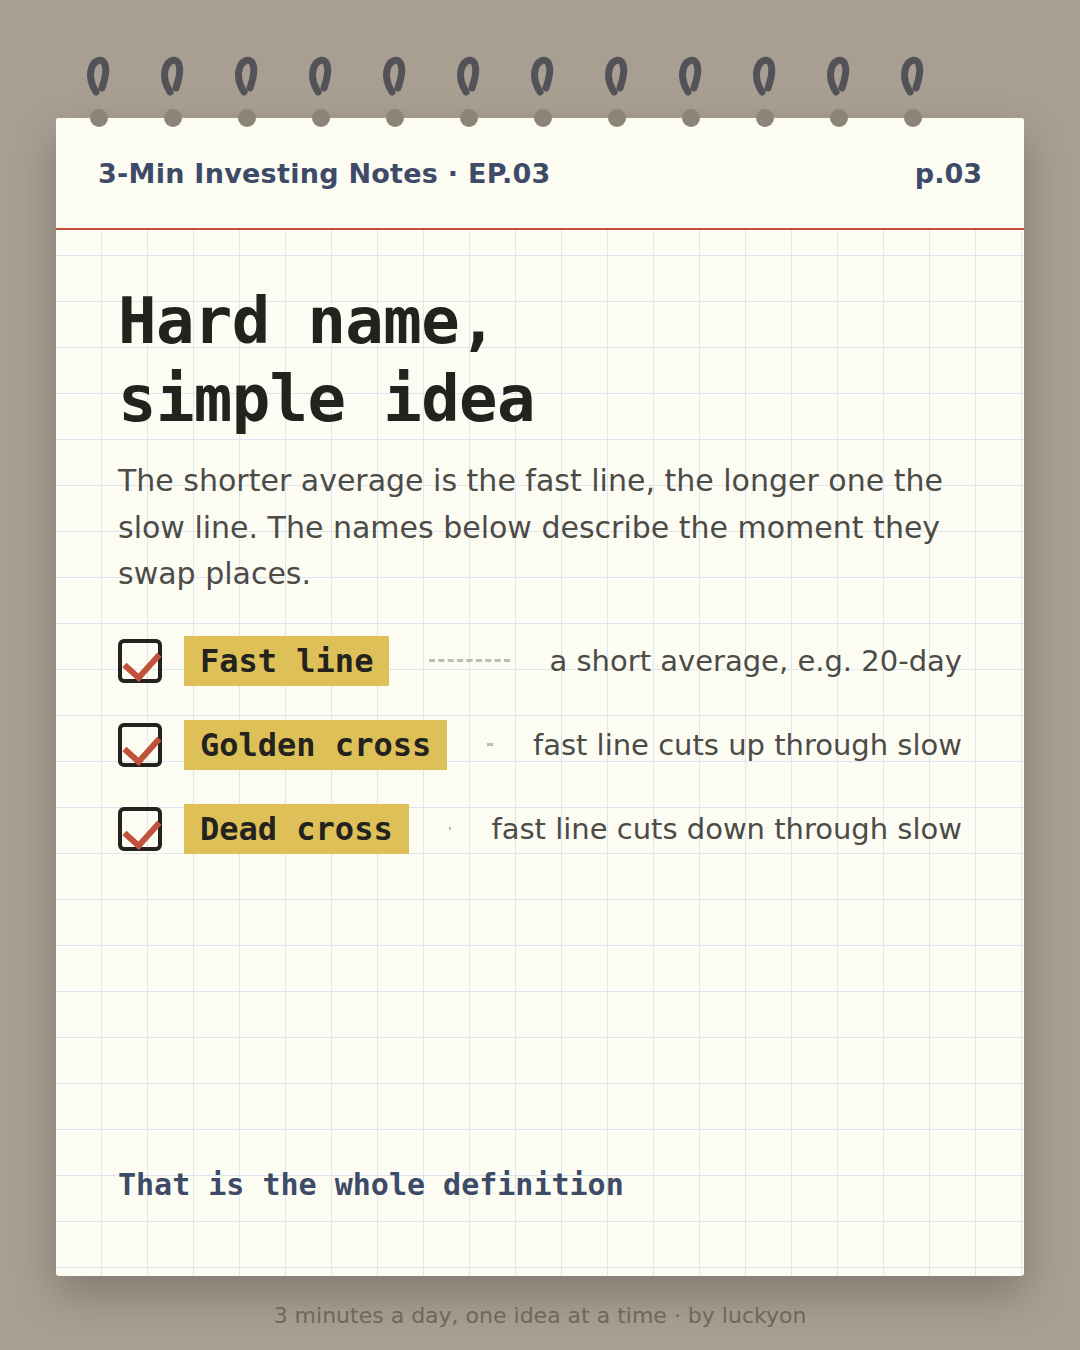
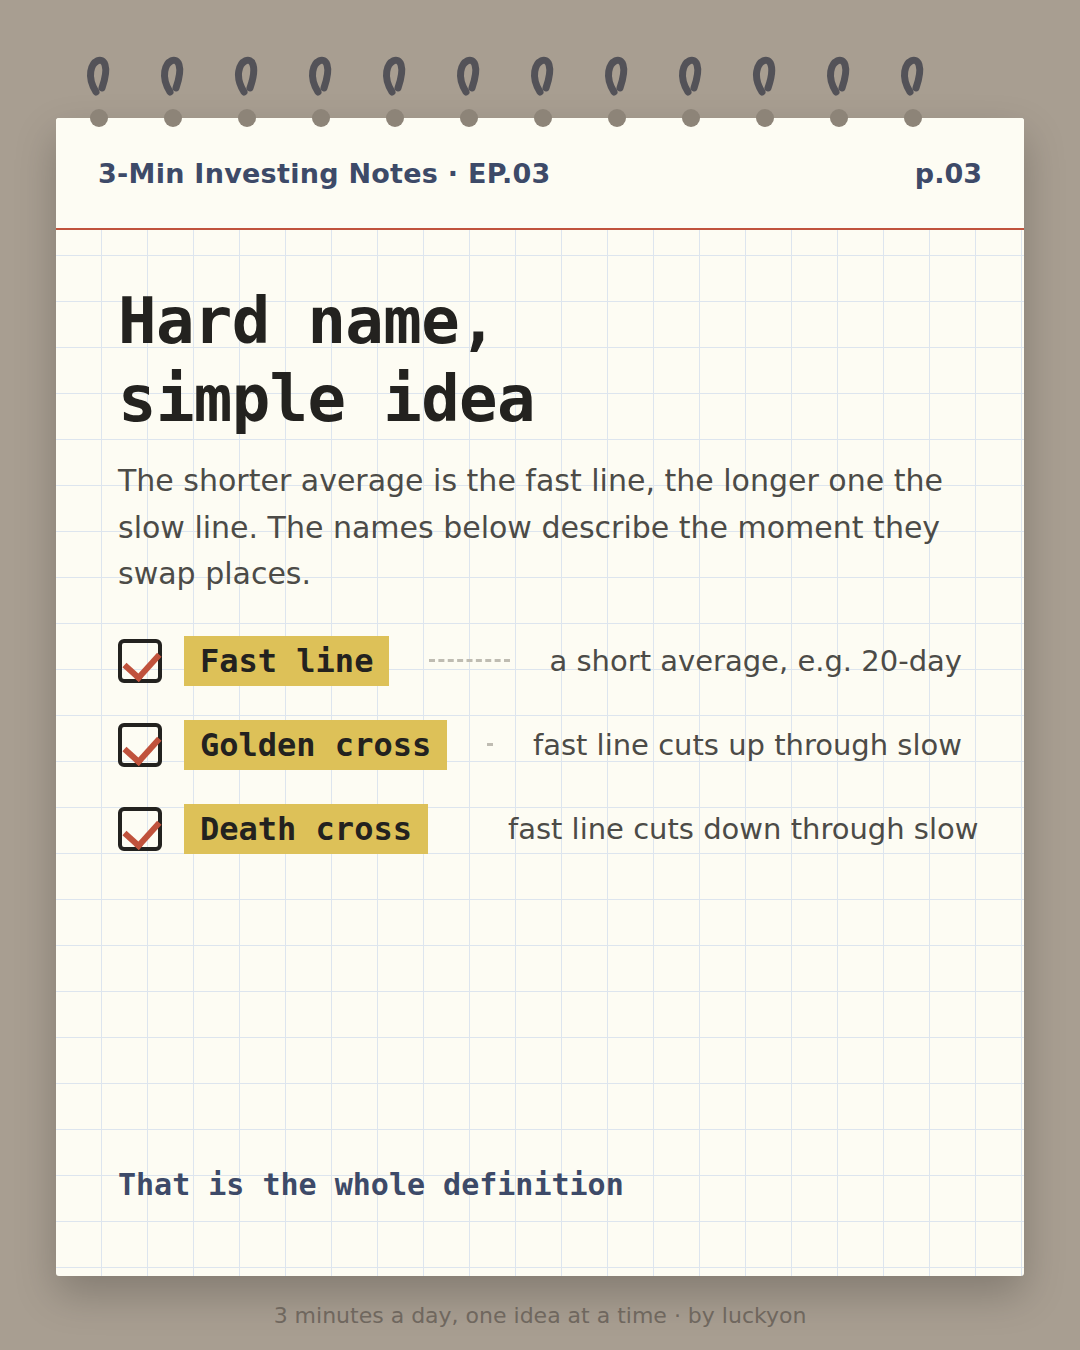
chart-notes: EP.03 verification fixes + cover 'cross' overlay
Independent verification (ROUTINE_COMMON §3) found:
- p.05 crossing counts were undercounts. Computing SMAs from a bare
  5-year pull silently drops early crossings, because a 200-day average
  cannot exist until ~10 months in. Recounted with averages seeded from
  prior history: 22/24/5/3 -> 23/26/6/4 (KOSPI 20/60, S&P 20/60,
  KOSPI 50/200, S&P 50/200). Same fix in p.07, alt text, fact_check.
- EN deck said 'dead cross', a calque of 데드크로스. English is
  'death cross'. Fixed throughout including the hashtag.
- caption_en/fact_check.en said the April death cross came 54 sessions
  before the golden cross; it is 53.
- Cover annot promised 'two lines meet' but overlay:'ma' draws only one
  curve, so there was no crossing to point at. Added overlay:'cross'
  (two curves meeting at the leader's endpoint, circled) and documented
  all three overlay values in the procedure.
- p.06 KO marker label sat on the 60-day line; shortened to 데드크로스.
- Recap line 3 'confirms, never predicts' over-claimed against this
  deck's own 7-session whipsaw example; now 'shows what already happened'.
- Dropped items[].display_ko/_en from the bars card: the renderer reads
  the invariant "display" field only, so they were dead fields.

Claude-Session: https://claude.ai/code/session_01ARgLZBLF44zqsgmoyHQraS

Changed region(s): [[0.4583, 0.5911, 0.9167, 0.6222], [0.2444, 0.5911, 0.3361, 0.6222], [0.3667, 0.5911, 0.3972, 0.6533]]

diff --git a/cards/chart-notes/2026-08-09-ep03/preview.html b/cards/chart-notes/2026-08-09-ep03/preview.html
@@ -56,7 +56,7 @@
 제출하면 다음 확인 루틴이 읽고 처리한 뒤, 결과를 카카오톡으로 알려드립니다.</p>
 
 <div class="fact"><b>시세 검증 기록</b>
-<div>KO — 코스피(^KS11) 20일/60일 단순이동평균 교차 — 2026-07-21 데드크로스. 20일선 7,684.13 / 60일선 7,754.10, 당일 종가 6,747.95. 직전 거래일 2026-07-20 은 20일선 7,802.46 &gt; 60일선 7,748.11 로 아직 위였다. 교차 당일 지수는 직전 고점(2026-06-22 종가 9,114.55) 대비 -26.0%. 2026-08-07(직전 거래일) 기준으로도 20일선 6,574.78 &lt; 60일선 7,625.71 로 여전히 아래. 5년치(2021-08-09~2026-08-07) 일봉 종가에서 직접 산출했고, Yahoo Finance chart API 와 PlayMCP UsStockInfo 두 경로의 종가가 일치함을 대조했다. 날짜 오프셋은 어린이날(5/5)·제헌절(7/17) 휴장 자리가 정확히 비어 있고 마지막 봉이 금요일 8/7 에 떨어지는 것으로 교차검증했다.</div><div>EN — S&amp;P 500 (^GSPC) 50-day/200-day simple moving averages — golden cross on 2025-07-01: 50-day 5,846.34 vs 200-day 5,836.35, close 6,198.01. The prior session, 2025-06-30, was still 5,828.03 vs 5,833.13. At the cross the index was already 6.2% above its own 200-day line. A dead cross had come first, on 2025-04-14 (5,748.25 vs 5,753.90), 53 trading sessions earlier. As of 2026-08-07 the 50-day (7,494.24) is still above the 200-day (7,050.03). Crossing counts over one identical 5-year pull (2021-08-09 to 2026-08-07): KOSPI 20/60 = 22, KOSPI 50/200 = 5, S&amp;P 500 20/60 = 24, S&amp;P 500 50/200 = 3. Shortest round trip found: KOSPI dead cross 2023-03-31 reversed to a golden cross 2023-04-11, 7 trading sessions later. All computed directly from Yahoo Finance daily closes.</div></div>
+<div>KO — 코스피(^KS11) 20일/60일 단순이동평균 교차 — 2026-07-21 데드크로스. 20일선 7,684.13 / 60일선 7,754.10, 당일 종가 6,747.95. 직전 거래일 2026-07-20 은 20일선 7,802.46 &gt; 60일선 7,748.11 로 아직 위였다. 교차 당일 지수는 직전 고점(2026-06-22 종가 9,114.55) 대비 -26.0%. 2026-08-07(직전 거래일) 기준으로도 20일선 6,574.78 &lt; 60일선 7,625.71 로 여전히 아래. 5년치(2021-08-09~2026-08-07) 일봉 종가에서 직접 산출했고, Yahoo Finance chart API 와 PlayMCP UsStockInfo 두 경로의 종가가 일치함을 대조했다. 교차 횟수(p.05)는 10년치를 받아 이동평균을 창(window) 이전 데이터로 미리 채운 뒤 창 안의 교차만 셌다 — 5년치만으로 계산하면 200일선이 초기 10개월간 존재하지 않아 과소 집계된다. 날짜 오프셋은 어린이날(5/5)·제헌절(7/17) 휴장 자리가 정확히 비어 있고 마지막 봉이 금요일 8/7 에 떨어지는 것으로 교차검증했다.</div><div>EN — S&amp;P 500 (^GSPC) 50-day/200-day simple moving averages — golden cross on 2025-07-01: 50-day 5,846.34 vs 200-day 5,836.35, close 6,198.01. The prior session, 2025-06-30, was still 5,828.03 vs 5,833.13. At the cross the index was already 6.2% above its own 200-day line. A death cross had come first, on 2025-04-14 (5,748.25 vs 5,753.90), 53 trading sessions earlier. As of 2026-08-07 the 50-day (7,494.24) is still above the 200-day (7,050.03). Crossing counts over one identical 5-year pull (2021-08-09 to 2026-08-07): KOSPI 20/60 = 23, KOSPI 50/200 = 6, S&amp;P 500 20/60 = 26, S&amp;P 500 50/200 = 4. These counts require moving averages SEEDED FROM HISTORY BEFORE the window — computing them from a bare 5-year pull silently undercounts (22/5/24/3), because a 200-day average cannot exist until ~10 months into the pull. A 10-year pull was used and only crossings dated inside the window were counted. Shortest round trip found: KOSPI death cross 2023-03-31 reversed to a golden cross 2023-04-11, 7 trading sessions later. All computed directly from Yahoo Finance daily closes.</div></div>
 
 
     <h2>🇰🇷 한국어 — 8장</h2>
@@ -78,8 +78,8 @@
       <figcaption><b>p.04</b> 교차 도해 그래프 — 파란 단기선이 붉은 장기선을 위로 뚫는 골든크로스 지점과 오른쪽에서 다시 아래로 뚫는 데드크로스 지점</figcaption>
     </figure>
     <figure>
-      <img src="ko/card5.png" alt="막대 비교 — 같은 5년 동안 교차 횟수, 코스피 20·60일선 22회, S&amp;P 500 20·60일선 24회, 코스피 50·200일선 5회, S&amp;P 500 50·200일선 3회" loading="lazy">
-      <figcaption><b>p.05</b> 막대 비교 — 같은 5년 동안 교차 횟수, 코스피 20·60일선 22회, S&amp;P 500 20·60일선 24회, 코스피 50·200일선 5회, S&amp;P 500 50·200일선 3회</figcaption>
+      <img src="ko/card5.png" alt="막대 비교 — 같은 5년 동안 교차 횟수, 코스피 20·60일선 23회, S&amp;P 500 20·60일선 26회, 코스피 50·200일선 6회, S&amp;P 500 50·200일선 4회" loading="lazy">
+      <figcaption><b>p.05</b> 막대 비교 — 같은 5년 동안 교차 횟수, 코스피 20·60일선 23회, S&amp;P 500 20·60일선 26회, 코스피 50·200일선 6회, S&amp;P 500 50·200일선 4회</figcaption>
     </figure>
     <figure>
       <img src="ko/card6.png" alt="실제 사례 그래프 — 2026년 7월 21일 코스피 20일선이 60일선을 아래로 통과한 데드크로스, 이때 지수는 6월 고점보다 26% 낮았음" loading="lazy">
@@ -107,20 +107,20 @@
       <figcaption><b>p.02</b> Intro card — the headline 'a golden cross is forming' and a sketched price line with question marks asking which two lines actually meet</figcaption>
     </figure>
     <figure>
-      <img src="en/card3.png" alt="Key-concept checklist — fast line is a short average such as the 20-day, a golden cross is the fast line cutting up through the slow line, a dead cross is cutting down" loading="lazy">
-      <figcaption><b>p.03</b> Key-concept checklist — fast line is a short average such as the 20-day, a golden cross is the fast line cutting up through the slow line, a dead cross is cutting down</figcaption>
+      <img src="en/card3.png" alt="Key-concept checklist — fast line is a short average such as the 20-day, a golden cross is the fast line cutting up through the slow line, a death cross is cutting down" loading="lazy">
+      <figcaption><b>p.03</b> Key-concept checklist — fast line is a short average such as the 20-day, a golden cross is the fast line cutting up through the slow line, a death cross is cutting down</figcaption>
     </figure>
     <figure>
-      <img src="en/card4.png" alt="Diagram of both crossings — a navy fast line cutting up through a red slow line at the marked golden cross, then cutting back down on the right at the dead cross" loading="lazy">
-      <figcaption><b>p.04</b> Diagram of both crossings — a navy fast line cutting up through a red slow line at the marked golden cross, then cutting back down on the right at the dead cross</figcaption>
+      <img src="en/card4.png" alt="Diagram of both crossings — a navy fast line cutting up through a red slow line at the marked golden cross, then cutting back down on the right at the death cross" loading="lazy">
+      <figcaption><b>p.04</b> Diagram of both crossings — a navy fast line cutting up through a red slow line at the marked golden cross, then cutting back down on the right at the death cross</figcaption>
     </figure>
     <figure>
-      <img src="en/card5.png" alt="Bar comparison of crossing counts over one identical five-year window: KOSPI 20/60 twenty-two times, S&amp;P 500 20/60 twenty-four times, KOSPI 50/200 five times, S&amp;P 500 50/200 three times" loading="lazy">
-      <figcaption><b>p.05</b> Bar comparison of crossing counts over one identical five-year window: KOSPI 20/60 twenty-two times, S&amp;P 500 20/60 twenty-four times, KOSPI 50/200 five times, S&amp;P 500 50/200 three times</figcaption>
+      <img src="en/card5.png" alt="Bar comparison of crossing counts over one identical five-year window: KOSPI 20/60 twenty-three times, S&amp;P 500 20/60 twenty-six times, KOSPI 50/200 six times, S&amp;P 500 50/200 four times" loading="lazy">
+      <figcaption><b>p.05</b> Bar comparison of crossing counts over one identical five-year window: KOSPI 20/60 twenty-three times, S&amp;P 500 20/60 twenty-six times, KOSPI 50/200 six times, S&amp;P 500 50/200 four times</figcaption>
     </figure>
     <figure>
-      <img src="en/card6.png" alt="Real example graph — the S&amp;P 500's 50-day line rising above its 200-day on July 1, 2025, with the April dead cross visible earlier on the same chart" loading="lazy">
-      <figcaption><b>p.06</b> Real example graph — the S&amp;P 500's 50-day line rising above its 200-day on July 1, 2025, with the April dead cross visible earlier on the same chart</figcaption>
+      <img src="en/card6.png" alt="Real example graph — the S&amp;P 500's 50-day line rising above its 200-day on July 1, 2025, with the April death cross visible earlier on the same chart" loading="lazy">
+      <figcaption><b>p.06</b> Real example graph — the S&amp;P 500's 50-day line rising above its 200-day on July 1, 2025, with the April death cross visible earlier on the same chart</figcaption>
     </figure>
     <figure>
       <img src="en/card7.png" alt="Three things to watch for with crossing signals — signals always lag, one cross settles nothing, and no pair of periods is the correct one" loading="lazy">
@@ -130,8 +130,8 @@
       <img src="en/card8.png" alt="Three-line recap, a teaser for the next episode on trading volume, and a note that this is educational content and not investment advice" loading="lazy">
       <figcaption><b>p.08</b> Three-line recap, a teaser for the next episode on trading volume, and a note that this is educational content and not investment advice</figcaption>
     </figure></div>
-    <h3>캡션 (897자)</h3>
-    <div class="cap">"A golden cross is forming." You have seen the headline. It does not mean the price will go up.<br><br>When a shorter moving average cuts up through a longer one, that is a golden cross. Cutting down through it is a dead cross. Grand name, simple idea.<br><br>What matters is that the signal always arrives late. When the S&amp;P 500's 50-day line rose above its 200-day on July 1, 2025, price was already 6.2% above that 200-day line. And a dead cross had come just 53 sessions earlier, in April. A cross confirms a move that already happened — it does not predict the next one.<br><br>📌 Save it and pull it up when you chart<br>👇 Tag a friend who just started investing<br>(Educational content only — not investment advice)<br><br>Next up: trading volume — how to read the bars under the price.<br><br>#investingbasics #stockmarket #goldencross #deadcross #movingaverage #technicalanalysis #sp500 #learntoinvest #stockcharts #luckyon</div>
+    <h3>캡션 (900자)</h3>
+    <div class="cap">"A golden cross is forming." You have seen the headline. It does not mean the price will go up.<br><br>When a shorter moving average cuts up through a longer one, that is a golden cross. Cutting down through it is a death cross. Grand name, simple idea.<br><br>What matters is that the signal always arrives late. When the S&amp;P 500's 50-day line rose above its 200-day on July 1, 2025, price was already 6.2% above that 200-day line. And a death cross had come just 53 sessions earlier, in April. A cross confirms a move that already happened — it does not predict the next one.<br><br>📌 Save it and pull it up when you chart<br>👇 Tag a friend who just started investing<br>(Educational content only — not investment advice)<br><br>Next up: trading volume — how to read the bars under the price.<br><br>#investingbasics #stockmarket #goldencross #deathcross #movingaverage #technicalanalysis #sp500 #learntoinvest #stockcharts #luckyon</div>
 
 
 <div class="act">

diff --git a/ROUTINE_PROMPT_CHARTNOTES.md b/ROUTINE_PROMPT_CHARTNOTES.md
@@ -176,7 +176,7 @@ node scripts/chart-notes/render-chartnotes.mjs <STAMP> en
 
 | type | 쓰임 | 주요 필드 |
 |---|---|---|
-| `cover` | p.01 표지 | `title`, `sub`, `cta`, `annot`(`\|` 로 줄바꿈) |
+| `cover` | p.01 표지 | `title`, `sub`, `cta`, `annot`(`\|` 로 줄바꿈), `overlay`(선택) |
 | `intro` | p.02 도입 | `title`, `body`, `caption` |
 | `checklist` | 용어 여러 개 나열 | `title`, `body`, `items[].term/desc`, `closing` |
 | `anatomy` | 구조를 화살표로 분해 | `title`, `body`, `labels.upper/body/lower` |
@@ -189,6 +189,16 @@ node scripts/chart-notes/render-chartnotes.mjs <STAMP> en
 | `formula` | **공식** — 분수 + 항 설명 + 계산 예시 | `title`, `body`, `formula.{numerator,denominator,result}`, `parts[]`, `example` |
 
 모든 텍스트 필드는 `_ko` / `_en` 접미사로 두 언어를 각각 쓴다. `title` 은 `<br>` 로 줄바꿈할 수 있다.
+
+**표지의 `overlay`** — 캔들 위에 무엇을 얹을지 고른다. **표지 주석(`annot`)이 가리키는 대상이 실제로 그려지는지 반드시 확인한다.**
+
+| 값 | 그림 | 쓸 때 |
+|---|---|---|
+| (없음) | 캔들만 | EP.01 처럼 주석이 캔들을 가리키는 회차 |
+| `ma` | 이동평균선 곡선 **1개** | 주석이 '선 하나'를 가리키는 회차 (이동평균선·추세선) |
+| `cross` | 교차점에서 만나는 곡선 **2개** + 붉은 원 | 주석이 '두 선이 만나는 순간'을 말하는 회차 (골든크로스·MACD·볼린저밴드) |
+
+EP.03 을 `ma` 로 두었더니 주석은 "선 두 개가 만나는 순간"인데 화면에는 선이 하나뿐이라 **가리킬 교차점이 없었다**(검증에서 적발). 주석 문구를 바꾸기 전에 `overlay` 가 맞는지 먼저 본다.
 
 **렌더 후 반드시 눈으로 확인한다.** 8장을 모두 열어 텍스트가 카드 밖으로 넘치거나 겹치지 않는지 본다.
 특히 **영어는 같은 내용도 한국어보다 길어져 넘치기 쉽다.** 넘치면 그 언어의 문구만 줄여 다시 렌더한다
